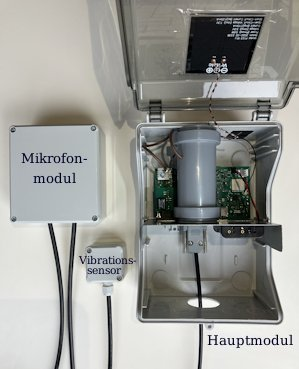
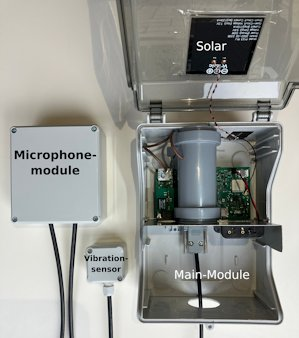
doc updated

diff --git a/docs/README.md b/docs/README.md
@@ -2,7 +2,8 @@
 
 ## Scope
 
-The task of the project is to locate and classify airborne and structure-borne noise in outdoor areas and to make the characteristics[^1] publicly available in a cloud for later analysis. It is to be understood as a Citizen Science[^2] project. The hardware of this modular sensor system was developed to suit the intended use, is inexpensive and works self-sufficiently with solar cells. The 24/7 operating mode makes it possible to determine the daily and seasonal distribution of sound events. The spatially distributed sensors also enable location correlation. One possible application is the detection and classification of animal sounds. The system helps us to better understand our environment and our influence on it. This is also the basis, for example, for the acoustic design and optimization of habitats for humans and fauna. Acoustic technologies enable 360° data recording and do not require direct visual contact.
+The aim of this open source project is to locate and classify airborne and structure-borne sound in outdoor areas and to make the characteristics[^1] publicly available in a cloud for later analysis. It is to be understood as a Citizen Science[^2] project.
+The hardware of this modular sensor system was developed to suit the intended use, is inexpensive and works self-sufficiently with solar cells. The 24/7 operating mode makes it possible to determine the daily and seasonal distribution of sound events. The spatially distributed sensors also enable location correlation. One possible application is the detection and classification of animal sounds. The system helps us to better understand our environment and our influence on it. This is also the basis, for example, for the acoustic design and optimization of habitats for humans and fauna. Acoustic technologies enable 360° data recording and do not require direct visual contact.
 
 Active participation in the project is expressly desired[^3]. In particular, there is a need
 for the:
@@ -10,7 +11,7 @@ for the:
 - Specification and implementation of data filtering, transparency and security
 - Specification, implementation and testing of security concepts for the firmware
 - Data evaluation and data assessment (inference) using AI methods at cloud level
-- Scaling mechanisms (commissioning of teh system, automatic firmware updates, etc.)
+- Scaling mechanisms (commissioning of the system, automatic firmware updates, etc.)
 
 ## Synergies
 It is planned to connect with existing platforms such as SENSOR.COMMUNITY[^4] and AIRROHR[^5]. A sound level meter is already available for this[^6]. The hardware and software of the Sound Observation System (SOS) now also offers, among other things:
@@ -19,34 +20,31 @@ It is planned to connect with existing platforms such as SENSOR.COMMUNITY[^4] an
 - operational self-sufficiency
 
 ## System concept
-The system currently consists of a main module and optional microphone and vibration sensor vibration sensor modules (Figure 1). The main module has up to three sensor line
+The system currently consists of a main module and optional microphone and vibration sensor modules (Figure 1). The main module has up to three sensor line
 connections (X, Y, Z) for microphone modules and a connection for a vibration sensor module.
 Module communication is currently both digital and, in parallel for test purposes, differential-analog.
-differential-analog for test purposes.
 
-![alt text](pics/systempic.jpg)
+![System modules](pics/systempic.jpg)
 
-Figure 1: System module
+Figure 1: System modules
 
 A local modular system (Figure 2) is connected to a cloud application via a narrow-band IoT modem (NB-IoT).
 
-![alt text](pics/systemdraw.png)
+![Modular local sensor system with cloud connection](pics/systemdraw.png)
 
 Figure 2: Modular local sensor system with cloud connection
 
-A USB 2.0 port on the main module also enables local use as a multi-channel microphone on a PC.
+An USB 2.0 port on the main module also enables local use as a multi-channel microphone on a PC.
 
 ## Functional principle of localization
 
-Sound waves propagate at different speeds depending on the medium. From the time offset, i.e. the phase offset of the signals, they can be spatially separated from each other. The simplest method is triangulation: with three sensors arranged in a triangle, the sensors arranged in a triangle, the location can be determined in the plane spanned by the triangle.
+Sound waves propagate at different speeds depending on the medium. From the time offset, i.e. the phase offset of the signals, they can be spatially separated from each other. The simplest method is triangulation: with three sensors arranged in a triangle, the location can be determined in the plane spanned by the triangle.
 
 For local positioning (source separation), however, the ESPRIT method [^8] is favored. It has a good resolution over a large angular range and requires only a few microphones.
 
 For source localization, the optimum distance between the individual modules is about half the wavelength to be recorded.
 
-At cloud level, the data from several sensor systems, each consisting of the main and the optional microphone and vibration sensor modules. For this purpose, the
-Deterministic Maximum Likelihood [^9] (DML) or a previously mentioned tri- and multilateration can be used. This statistical or geometric approach does not require phase coupling, which is not initially provided by the transmission path from the main module to the cloud. Whether the time stamp signals of the optional GNSS modules are sufficient for synchronizing the sensor systems
-with each other is still to be evaluated.
+The data from several sensor systems, each consisting of the main and the optional microphone and vibration sensor modules are joined at cloud level. For this purpose, the Deterministic Maximum Likelihood [^9] (DML) or the previously mentioned tri- and multilateration can be used. This statistical or geometric approach does not require phase coupling, which is not initially provided by the transmission path from the main module to the cloud. Whether the time stamp signals of the optional GNSS modules are sufficient for synchronizing the sensor systems with each other is still under evaluation.
 
 ## System modules
 The main module (Figures 3 and 4) contains, among other things:
@@ -59,49 +57,56 @@ recording of the MEMS microphone signals
 - an air humidity (± 1.5 %) and air temperature sensor (± 0.3 K)
 - Ultra-low-power Cortex M33 MCU with 2 MB Flash and 784 KB RAM for signal processing and filtering
 signal processing and filtering
-- 4 MB EEPROM and μSD card connection
-- USB OTG with audio codec UAC1 device
-- Single-pair Ethernet (SPE), 1 km range, 10 MBit/s
+- 4 MB EEPROM and μSD card slot
+- USB OTG with audio codec UAC1 Device
+- Single-Pair Ethernet (SPE), 1 km range, 10 MBit/s
 - NB-IoT wireless modem, nano SIM slot
-- Solar module, super cap and 3.6 V backup battery
+- Solar module, Super Cap and 3.6 V backup battery
 - Connection for data exchange and power supply for a sensor line (X) and a vibration sensor module
 
-![alt text](pics/mainmodule_kicad.jpg)
+[Schematic SOS_Main.pdf](../HW/Main/SOS_Main.pdf)
+
+
+![Main module and add-on module (KiCad)](pics/mainmodule_kicad.jpg)
 
 Figure 3: Main module and add-on module (KiCad)
 
-![alt text](pics/mainmodulepic.jpg)
+![Main module](pics/mainmodulepic.jpg)
 
 Figure 4: Main module
 
-The main module can be supplemented by an add-on module. Figure 5 shows an example of a module for connecting two sensor lines (Y, Z). It also contains a circuit for galvanically isolated recording of the sheath currents in the supply lines of the microphone modules. The main module
-provides two power supplies (3.0 V and 1.85 V) and two UART interfaces for the add-on module.
+The main module can be supplemented by an add-on module. Figure 5 shows an example of a module for connecting two sensor lines (Y, Z). It also contains a circuit for galvanically isolated measurement of shield currents in the connection lines to the add-on modules. The main module provides two power supplies (3.0 V and 1.85 V) and two UART interfaces for the add-on module.
 
-![alt text](pics/auxmodule.jpg)
+![Add-on module](pics/auxmodule.jpg)
 
 Figure 5: Add-on module
 
-A local sensor system with localization function is formed by microphone modules (Figure 6) at the sensor line sensor line connections (X, Y, Z). These currently include:
+A local sensor system with localization function is formed by microphone modules (Figure 6) at the sensor line connections (X, Y, Z). These currently include:
 - MEMS and differential pressure sensors
 - a synchronous 2-channel 24-bit ΔΣ-ADC
 - Ultra-low-power Cortex M33 MCU with 64 KB flash and 32 KB RAM
-- 2 connections for daisy-chaining the microphone and vibration sensor modules of a sensor line Modules of a sensor line
+- 2 connections for daisy-chaining the microphone and/or vibration sensor modules of a sensor line
 - GNSS module (GPS, GLONASS, BeiDou, Galileo) for position detection and as a time base for time synchronization at cloud level
 
-![alt text](pics/micmodule.jpg)
+[Schematic SOS_Mic.pdf](../HW/Mic/SOS_Mic.pdf)
+
+
+![Microphone module](pics/micmodule.jpg)
 
 Figure 6: Microphone module
 
 A MEMS-based vibration sensor module (Figure 7, noise value 60 μg / √Hz) for structure-borne sound pick-up up to 100 Hz forms the end of a sensor line.
 
-![alt text](pics/vibrationsensormodule.jpg)
+[Schematic SOS_Vibr.pdf](../HW/Vibr/SOS_Vibr.pdf)
+
+![Vibration sensor module](pics/vibrationsensormodule.jpg)
 
 Figure 7: Vibration sensor module
 
 ## Circuit / hardware concept
-The internal data lines coming from the MEMS microphones are designed differentially for a good signal-to-noise ratio. The same applies to the external data lines between the microphone modules and the main module. The synchronous digitization of the microphone phase information is available for beamforming algorithms for source localization and separation.
+The internal data lines coming from the MEMS microphones are designed differentially for a good signal-to-noise ratio ("SNR"). The same applies to the external data lines between the microphone modules and the main module. The synchronous digitization of the microphone phase information is available for beamforming algorithms for source localization and separation.
 
-For cost reasons, the PCBs are currently 2-layer with very few vias for the signal and voltage lines and have a largely continuous voltage lines and have a largely continuous ground plane.
+For cost reasons, the PCBs are currently 2-layer with very few vias for the signal and voltage lines and have a largely continuous ground plane.
 
 The design priorities of the hardware are currently as follows:
 1. data quality
